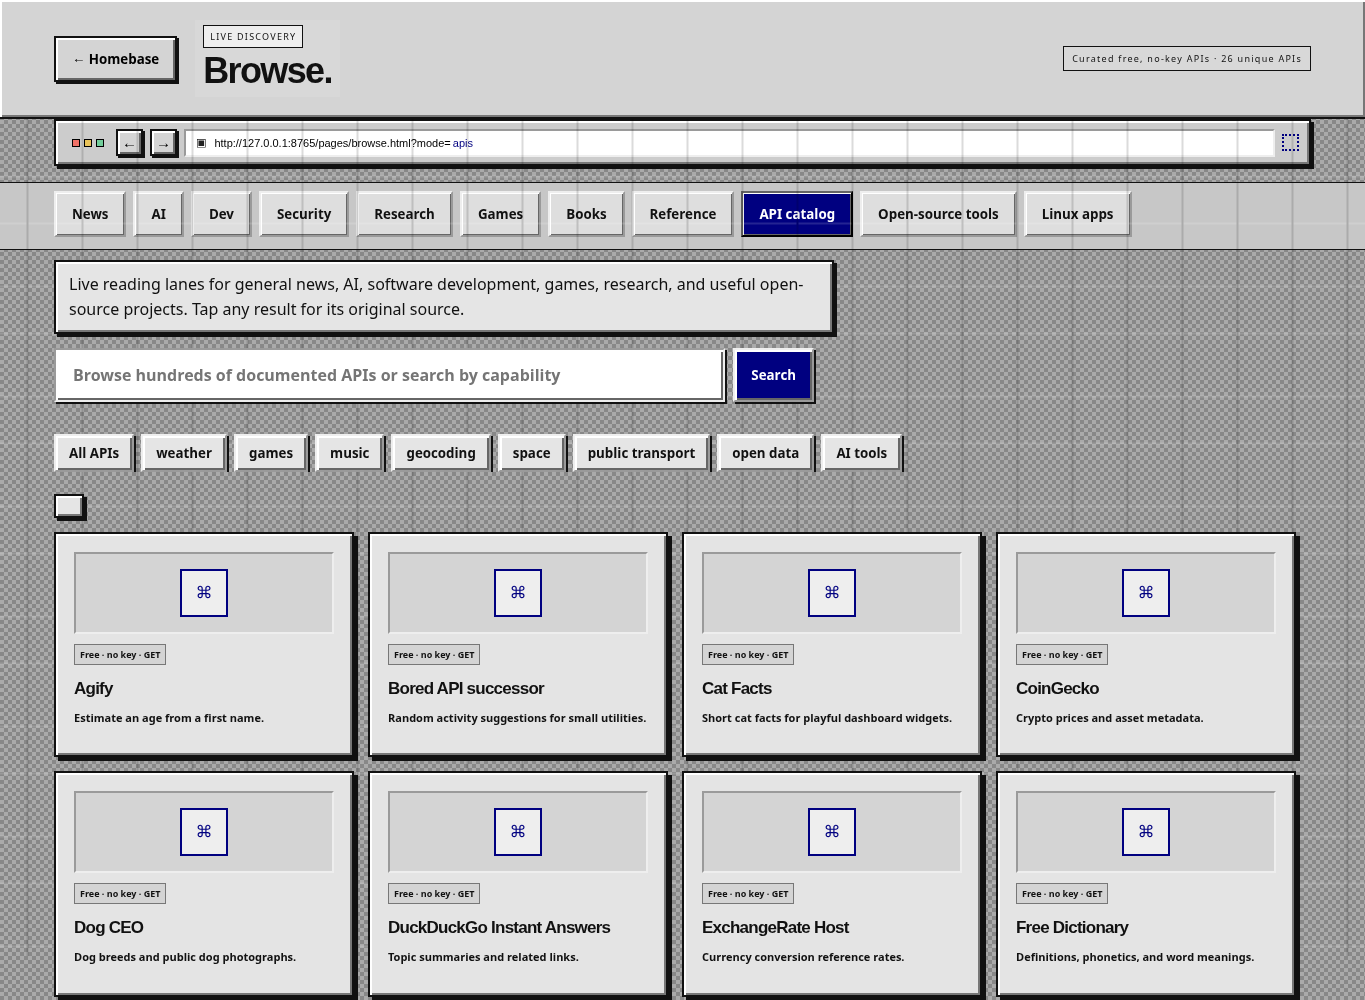
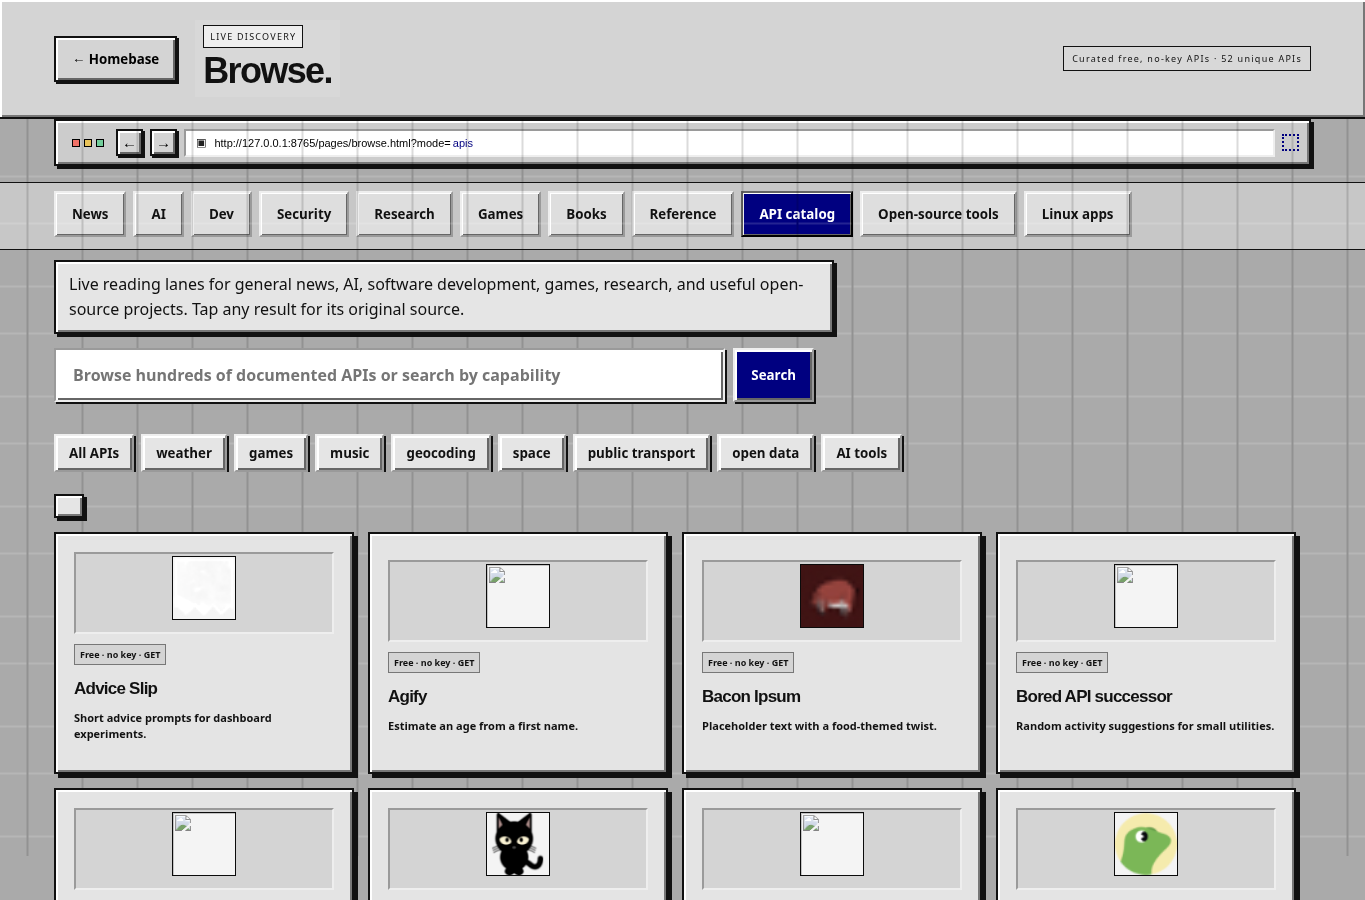
refresh browse capture and harden retro readability

diff --git a/assets/scripts/discovery/browse.js b/assets/scripts/discovery/browse.js
@@ -1,4 +1,5 @@
 (()=>{
+  document.head.insertAdjacentHTML('beforeend','<style>/* Browse filters stay solid so labels do not compete with live backgrounds. */nav button,#suggestions button,.official-links a{background:#1b242b!important;backdrop-filter:none!important}html[data-theme="cobalt"] nav button,html[data-theme="cobalt"] #suggestions button,html[data-theme="cobalt"] .official-links a{background:#262626!important}html[data-theme="paper-glass"] nav button,html[data-theme="paper-glass"] #suggestions button,html[data-theme="paper-glass"] .official-links a{background:#f8faf9!important}html[data-theme="ultra-retro"] nav button,html[data-theme="ultra-retro"] #suggestions button,html[data-theme="ultra-retro"] .official-links a{background:#d4d4d4!important;backdrop-filter:none!important}html[data-theme="ultra-retro"] nav button.active{background:#000080!important;color:#fff!important}</style>');
   document.head.insertAdjacentHTML('beforeend','<style>.rss-reader{margin:17px 0;padding:15px;border-left:3px solid var(--accent,#78d7ff);background:#ffffff0a}.rss-reader small{font:700 10px ui-monospace,monospace;letter-spacing:.12em}.rss-reader p{max-height:48vh;overflow:auto;white-space:pre-wrap;line-height:1.7}html[data-theme="ultra-retro"] .rss-reader{border:2px inset #eee;border-left:4px solid #000080;background:#fff;color:#111}html[data-theme="ultra-retro"] .rss-reader small{color:#000080}</style>');
   document.head.insertAdjacentHTML('beforeend','<style>.api-actions{display:grid;gap:8px;margin-top:14px}.api-actions>*{display:flex;align-items:center;justify-content:center;min-height:44px;padding:0 13px;border:1px solid #527a8b;border-radius:8px;background:#ffffff0c;color:inherit;font:700 12px system-ui;text-decoration:none;cursor:pointer}.api-actions .primary{background:#8ee8fa;color:#071318;border-color:#8ee8fa}.api-result{max-height:42vh;overflow:auto;margin:14px 0 0;padding:13px;border:1px solid #527a8b;border-radius:8px;background:#071116;color:#d6f4ff;font:12px/1.5 ui-monospace,monospace;white-space:pre-wrap;word-break:break-word}html[data-theme="ultra-retro"] .api-actions>*{border:2px outset #eee;border-radius:0;background:#d4d4d4;color:#111}html[data-theme="ultra-retro"] .api-actions .primary{background:#000080;color:#fff;border-color:#111}html[data-theme="ultra-retro"] .api-result{border:2px inset #eee;border-radius:0;background:#fff;color:#111}</style>');
   let mode=['news','ai','dev','security','research','games','books','reference','apis','projects','linux'].includes(new URLSearchParams(location.search).get('mode'))?new URLSearchParams(location.search).get('mode'):'news',items=[],page=0,openIndex=-1;

diff --git a/assets/scripts/homebase/deck.js b/assets/scripts/homebase/deck.js
@@ -9,7 +9,7 @@ addEventListener('DOMContentLoaded',()=>{const clock=document.querySelector('#cl
 
 document.head.insertAdjacentHTML('beforeend','<link rel="stylesheet" href="/assets/styles/homebase/retro-icon-motion.css?v=94"><link rel="stylesheet" href="/assets/styles/homebase/retro-icon-frame.css?v=95"><link rel="stylesheet" href="/assets/styles/homebase/game-fullscreen.css?v=94">');
 document.head.insertAdjacentHTML('beforeend','<link rel="stylesheet" href="/assets/styles/homebase/orbit-mini-drag.css?v=96"><link rel="stylesheet" href="/assets/styles/homebase/orbit-player-placement.css?v=99">');
-document.head.insertAdjacentHTML('beforeend','<link rel="stylesheet" href="/assets/styles/homebase/retro-icon-sprites.css?v=100">');
+document.head.insertAdjacentHTML('beforeend','<link rel="stylesheet" href="/assets/styles/homebase/retro-icon-sprites.css?v=100"><link rel="stylesheet" href="/assets/styles/homebase/retro-icon-color-pack.css?v=1">');
 if(!document.querySelector('script[data-orbit-mini-drag]')){const script=document.createElement('script');script.src='/assets/scripts/homebase/orbit-mini-drag.js?v=96';script.dataset.orbitMiniDrag='true';document.head.append(script)}if(!document.querySelector('script[data-orbit-pixel-soft]')){const script=document.createElement('script');script.src='/assets/scripts/homebase/orbit-pixel-soft.js?v=96';script.dataset.orbitPixelSoft='true';document.head.append(script)}
 const requestedTheme=new URLSearchParams(location.search).get('theme');if(['slate-glass','tidal','cobalt','paper-glass','ultra-retro'].includes(requestedTheme)){localStorage.setItem('nightglass-theme',requestedTheme);localStorage.setItem('homebase-visual-version','3')}
 document.head.insertAdjacentHTML('beforeend','<link rel="stylesheet" href="/assets/styles/homebase/relay-window-fix.css?v=85"><link rel="stylesheet" href="/assets/styles/homebase/desktop-cleanup.css?v=85"><link rel="stylesheet" href="/assets/styles/homebase/modal-pop.css"><script src="/assets/scripts/homebase/relay-resize.js?v=69"><\/script><script src="/assets/scripts/homebase/modal-pop.js?v=77"><\/script>');

diff --git a/assets/styles/shared/ultra-retro.css b/assets/styles/shared/ultra-retro.css
@@ -1,7 +1,7 @@
 /* Classic Gray: a monochrome System 6/Windows 3.1-inspired desktop, not a neon arcade skin. */
 [data-theme="ultra-retro"]{color-scheme:light;--action:#111;--focus:#000;--signal-rgb:197,73,34;--signal-alt-rgb:0,103,148;--bg:#aaa;--panel:#ddd;--line:#111;--text:#050505;--muted:#444;font-family:Chicago,Geneva,"MS Sans Serif",Tahoma,system-ui,sans-serif!important}
 [data-theme="ultra-retro"] body{color:#050505!important;font-family:Chicago,Geneva,"MS Sans Serif",Tahoma,system-ui,sans-serif!important;background-color:#aaa!important;background-image:linear-gradient(45deg,#888 25%,transparent 25%),linear-gradient(-45deg,#888 25%,transparent 25%),linear-gradient(45deg,transparent 75%,#888 75%),linear-gradient(-45deg,transparent 75%,#888 75%)!important;background-position:0 0,0 4px,4px -4px,-4px 0!important;background-size:8px 8px!important}
-[data-theme="ultra-retro"] body:before{content:"";position:fixed;z-index:0;inset:0 0 auto;height:24px;background:linear-gradient(#fff,#d6d6d6)!important;border-bottom:2px solid #000;opacity:1!important;filter:none!important;animation:none!important;pointer-events:none}
+[data-theme="ultra-retro"] body:before{display:none!important}
 [data-theme="ultra-retro"] .homebase-desktop:before{content:none!important;display:none!important}
 [data-theme="ultra-retro"] body:after{display:none!important}
 [data-theme="ultra-retro"] body:after{content:""!important;display:block!important;position:fixed!important;z-index:0!important;inset:27px 0 44px!important;pointer-events:none!important;opacity:.14!important;background:repeating-linear-gradient(90deg,transparent 0 26px,#000 27px 28px,transparent 29px 55px),repeating-linear-gradient(0deg,transparent 0 22px,#fff 23px 24px,transparent 25px 47px)!important;background-size:110px 94px,94px 110px!important;animation:retroSignalDrift 18s linear infinite!important}

diff --git a/assets/styles/homebase/retro-icon-color-pack.css b/assets/styles/homebase/retro-icon-color-pack.css
@@ -1,0 +1,9 @@
+/* The desktop keeps its classic geometry, but icons get purpose cues instead of
+   one repeated navy stamp.  The palette is deliberately muted and low-count. */
+html[data-theme="ultra-retro"] .homebase-desktop .tile i{background:var(--retro-icon,linear-gradient(135deg,#fff 0 47%,#c3c3c3 48% 100%))!important}
+html[data-theme="ultra-retro"] .homebase-desktop .tile:nth-child(5n+1) i{color:#000080!important;background:linear-gradient(135deg,#dbe7ff 0 48%,#819dc7 49% 100%)!important}
+html[data-theme="ultra-retro"] .homebase-desktop .tile:nth-child(5n+2) i{color:#704000!important;background:linear-gradient(135deg,#fff0ad 0 48%,#c89835 49% 100%)!important}
+html[data-theme="ultra-retro"] .homebase-desktop .tile:nth-child(5n+3) i{color:#075a4e!important;background:linear-gradient(135deg,#cff3e8 0 48%,#61ad99 49% 100%)!important}
+html[data-theme="ultra-retro"] .homebase-desktop .tile:nth-child(5n+4) i{color:#692b44!important;background:linear-gradient(135deg,#f3d9e5 0 48%,#b97792 49% 100%)!important}
+html[data-theme="ultra-retro"] .homebase-desktop .tile:nth-child(5n) i{color:#35434f!important;background:linear-gradient(135deg,#dbe5e7 0 48%,#91a7ad 49% 100%)!important}
+html[data-theme="ultra-retro"] .homebase-desktop .tile:hover i,html[data-theme="ultra-retro"] .homebase-desktop .tile:focus-visible i,html[data-theme="ultra-retro"] .homebase-desktop .tile.pad-focus i{color:#fff!important;background:#000080!important}

diff --git a/modules/radio-orbit/orbit-contrast-plus.css b/modules/radio-orbit/orbit-contrast-plus.css
@@ -1,0 +1,5 @@
+/* Dense visual programs never get to decide whether text is readable. */
+body:is([data-visual="pixel"],[data-visual="terminal"],[data-visual="radar"],[data-visual="tunnel"]) .hero h1{display:table;max-width:100%;padding:8px 10px;background:#071116ed!important;color:#f6fbff!important;border:1px solid #8edff366!important;box-shadow:0 8px 24px #000a;text-shadow:0 2px 5px #000!important}
+body:is([data-visual="pixel"],[data-visual="terminal"],[data-visual="radar"],[data-visual="tunnel"]) .hero h1 em{color:#9deeff!important;-webkit-text-stroke:0!important;text-shadow:0 1px 4px #000!important}
+html[data-theme="ultra-retro"] body:is([data-visual="pixel"],[data-visual="terminal"],[data-visual="radar"],[data-visual="tunnel"]) .hero h1{background:#d4d4d4!important;color:#111!important;border:2px solid #111!important;box-shadow:inset 2px 2px #fff,inset -2px -2px #666,3px 3px #111!important;text-shadow:none!important}
+html[data-theme="ultra-retro"] body:is([data-visual="pixel"],[data-visual="terminal"],[data-visual="radar"],[data-visual="tunnel"]) .hero h1 em{color:#000080!important;text-shadow:none!important}

diff --git a/modules/radio-orbit/index.html b/modules/radio-orbit/index.html
@@ -13,6 +13,7 @@
   <link rel="stylesheet" href="orbit-controls.css">
   <link rel="stylesheet" href="retro-visual-fix.css?v=80">
   <link rel="stylesheet" href="orbit-contrast.css?v=99">
+  <link rel="stylesheet" href="orbit-contrast-plus.css?v=1">
   <link rel="stylesheet" href="retro-subthemes.css?v=1">
 </head>
 <body>
